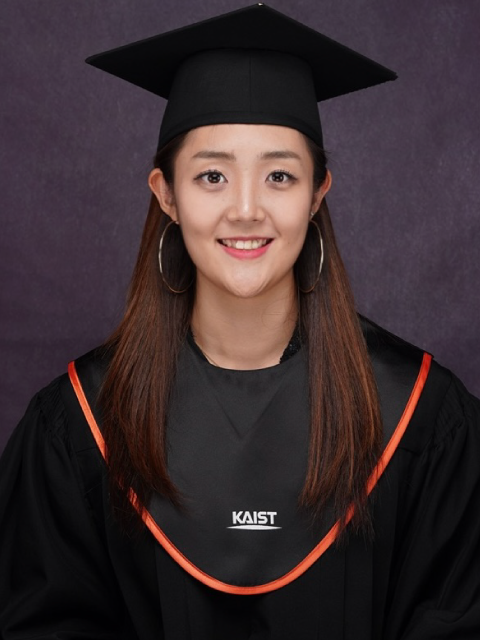
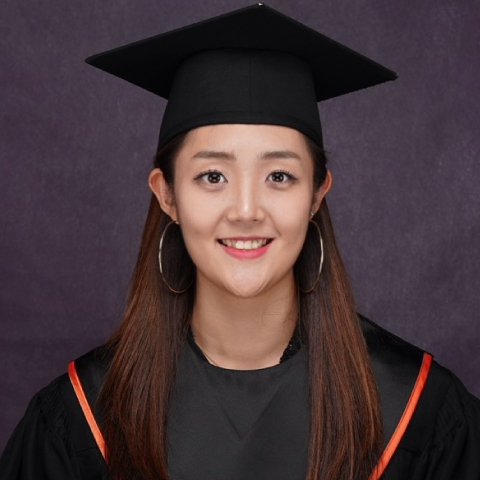
updated members page

diff --git a/hcitech/src/pages/team.js b/hcitech/src/pages/team.js
@@ -1,6 +1,7 @@
 import SectionContainer from "@/components/section_container";
 import Link from "next/link";
 import {gradStudents, interns, gradAlumni, internAlumni} from "@/data/members_data";
+import MemberImage from "@/components/member_image";
 
 export default function Team() {
     return (
@@ -25,15 +26,21 @@ const ProfessorCard = () => {
   return (
     <div className = "row">
         <h2 className="card-title">Faculty</h2>
-        <div className="col-lg-3 col-6" style={{textAlign: "center", paddingBottom: "20px"}}>
-            <img className="img-fluid img-thumbnail img-people" src="./img/Member/Sang.jpg"/>
+        <div className="col-lg-3 col-6" style={{paddingBottom: "20px", paddingLeft: "60px"}}>
+          <MemberImage originalImage = "/img/Member/Sang.jpg" hoverImage = "/main_icon.png" />
         </div>
         <div className="col-lg-6 col-6" style={{textAlign: "left", paddingBottom: "20px"}}>
-            <b><a href="https://sanghoy.com/" target="_blank">Sang Ho Yoon</a></b><br/>
+            <b><a href="https://sanghoy.com/" target="_blank">Sang Ho Yoon</a></b>
             <br/>Assistant Professor @ <Link href="https://ct.kaist.ac.kr/boards/view/faculty_board/119" target="_blank">Graduate School of Culture Technology</Link>
             <br/>Joint Professor @ <Link href="https://cs.kaist.ac.kr/people/view?idx=626&kind=faculty&menu=160" target="_blank">School of Computing</Link> & <Link href="https://meta.kaist.ac.kr/" target="_blank">Graduate School of Metaverse</Link>
             <br/>Member of <Link href="https://hci.kaist.ac.kr/" target="_blank">KAIST HCI Group</Link><br/>
-            Office: N5 3F #2327<br/>
+            Office: N5 3F #2327<br/><br/>
+            <div className = "contact-box">
+              <i className = "bi bi-house-door-fill" onClick={() => console.log("hello")} />
+              <i className = "bi bi-envelope-fill" onClick={() => console.log("hello")} />
+              <i className = "bi bi-linkedin" onClick={() => console.log("hello")} />
+              <i className = "bi bi-github" onClick={() => console.log("hello")} />
+            </div>
         </div>
         <div class="col-lg-3 col-6" style={{textAlign: "center", paddingBottom: "20px"}}>
         </div>
@@ -51,14 +58,21 @@ const GradStudents = () => {
         gradStudents.map(
           (member, index) => (
             <>
-              <div key = {index} className = "col-lg-3 col-3" style={{textAlign: "center", paddingBottom: "20px"}}>
-                <img class="img-fluid img-thumbnail img-people" src={member['img']}/>
+              <div key = {index} className = "col-lg-3 col-3" style={{paddingBottom: "20px", paddingLeft: "60px"}}>
+                <MemberImage originalImage = {member['img']} hoverImage = "/main_icon.png" />
               </div>
               <div class="col-lg-3 col-3">
-                  <b>{ member['link'] == '#' ? member['name'] : <Link href={member['link']} target="_blank">{member['name']}</Link> }</b><br/>
-                  {member['title']}<br/>
-                  {member['note']}<br/>
+                <b>{ member['link'] == '#' ? member['name'] : <Link href={member['link']} target="_blank">{member['name']}</Link> }</b><br/>
+                {member['title']}<br/>
+                {member['note']}<br/>
+                <div className = "contact-box">
+                  <i className = "bi bi-house-door-fill" onClick={() => console.log("hello")} />
+                  <i className = "bi bi-envelope-fill" onClick={() => console.log("hello")} />
+                  <i className = "bi bi-linkedin" onClick={() => console.log("hello")} />
+                  <i className = "bi bi-github" onClick={() => console.log("hello")} />
+                </div>
               </div>
+              
             </>
           )
         )
@@ -84,8 +98,8 @@ const Interns = () => {
         interns.map(
           (member, index) => (
             <>
-              <div className = "col-lg-3 col-3" style={{textAlign: "center", paddingBottom: "20px"}}>
-                <img class="img-fluid img-thumbnail img-people" src={member['img']}/>
+              <div key = {index} className = "col-lg-3 col-3" style={{paddingBottom: "20px", paddingLeft: "60px"}}>
+                <MemberImage originalImage = {member['img']} hoverImage = "/main_icon.png" />
               </div>
               <div class="col-lg-3 col-3">
                   <b> { member['link'] == '#' ? member['name'] : <Link href={member['link']} target="_blank">{member['name']}</Link> }</b><br/>
@@ -105,8 +119,8 @@ const AdministrativeStaff = () => {
   return (
     <div className = "row">
       <h2 className="card-title">Administrative Staff</h2>
-      <div className="col-lg-3 col-6" style={{textAlign: "center", paddingBottom: "20px"}}>
-        <img className="img-fluid img-thumbnail img-people" src="/img/Member/DY.jpeg" />
+      <div className = "col-lg-3 col-3" style={{paddingBottom: "20px", paddingLeft: "60px"}}>
+        <MemberImage originalImage = "/img/Member/DY.jpeg" hoverImage = "/main_icon.png" />
       </div>
       <div className="col-lg-3 col-6" style={{textAlign: "left"}}>
         <b>Dasom Yoo</b><br/>

diff --git a/hcitech/src/components/member_image.js b/hcitech/src/components/member_image.js
@@ -1,0 +1,50 @@
+import { useState } from "react";
+
+export default function MemberImage({originalImage, hoverImage}) {
+  const [hover, setHover] = useState(false);
+
+  return (
+    <div
+      onMouseEnter={() => setHover(true)}
+      onMouseLeave={() => setHover(false)}
+      style={{
+        width: "200px",
+        height: "200px",
+        borderRadius: "50%",
+        overflow: "hidden", // Ensures images stay within bounds
+        position: "relative",
+      }}
+    >
+      <img
+        src={hoverImage}
+        alt="Hovered Image"
+        style={{
+          position: "absolute",
+          borderRadius: "50%",
+          padding: "0.25rem",
+          border: "2px solid #dee2e6",
+          width: "100%",
+          height: "100%",
+          objectFit: "cover",
+          transition: "opacity 0.3s ease",
+          opacity: hover ? 1 : 0, // Show on hover
+        }}
+      />
+      <img
+        src={originalImage}
+        alt="Default Image"
+        style={{
+          position: "absolute",
+          borderRadius: "50%", 
+          padding: "0.25rem",
+          border: "2px solid #dee2e6",
+          width: "100%",
+          height: "100%",
+          objectFit: "cover",
+          transition: "opacity 0.3s ease",
+          opacity: hover ? 0 : 1, // Show when not hovered
+        }}
+      />
+    </div>
+  );
+}

diff --git a/hcitech/src/styles/globals.css b/hcitech/src/styles/globals.css
@@ -221,8 +221,18 @@ img.img-title {
 }
 
 img.img-people{
-  width: 150px;
-  border-radius: 5%;
+  width: 200px;
+  height: 200px;
+  object-fit: cover;
+  border-radius: 50%;
+}
+
+img.img-people-hidden{
+  width: 200px;
+  height: 200px;
+  object-fit: cover;
+  border-radius: 50%;
+  transition: 0.3s ease;
 }
 
 @media (min-width: 992px) {
@@ -289,4 +299,24 @@ span.type{
 .figure-caption {
   font-size: 0.875em;
   color: #6c757d;
+}
+
+
+.contact-box i {
+  margin-right: 10px;
+  text-align: center;
+  display: inline-block;
+  width: 35px;
+  height: 35px;
+  line-height: 35px;
+  background-color: #0072FF;
+  color: #FFF;
+  font-size: 20px;
+  border-radius: 50%;
+}
+
+.contact-box i:hover {
+  background-color: #FFF;
+  color: #0072FF;
+  cursor:pointer;
 }

diff --git a/hcitech/src/pages/_app.js b/hcitech/src/pages/_app.js
@@ -1,4 +1,5 @@
 import "bootstrap/dist/css/bootstrap.min.css";
+import "bootstrap-icons/font/bootstrap-icons.css";
 import "@/styles/globals.css";
 import NavBar from "@/components/navbar";
 
